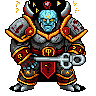
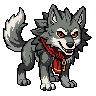
ボスの絵を、最初の街に合う狼に差し替える
- よろいの騎士は強そうすぎたので、赤いスカーフに鍵をさげた灰色の狼にする（Pixellab）
- 名前・HP・出る問題は同じ。呼吸の2コマ目も作り直す
- 前の絵は art/pixellab-original/town01-boss-armored.png に残す

diff --git a/art/README.md b/art/README.md
@@ -6,3 +6,4 @@
 - `pixellab-original/town01-before-fix.png`：Pixellab で作った街の背景の、手直し前のもの。右上に紛れ込んだアイコンを、`public/towns/town01.png` ではとなりの壁の模様で塗りつぶしてある。
 
 ほかの Pixellab の絵は、作ったままのものが `public/` に入っている。
+- `pixellab-original/town01-boss-armored.png`：最初の Pixellab のボス（よろいの騎士）。2026-11-17 に「最初の街には強そうすぎる」ため、狼のボスに差し替えた。戻すときは `public/monsters/town01-boss.png` にコピーし、`scripts/make_breath_frames.ps1` のボスの SplitRow を 73 に戻して動かす。
